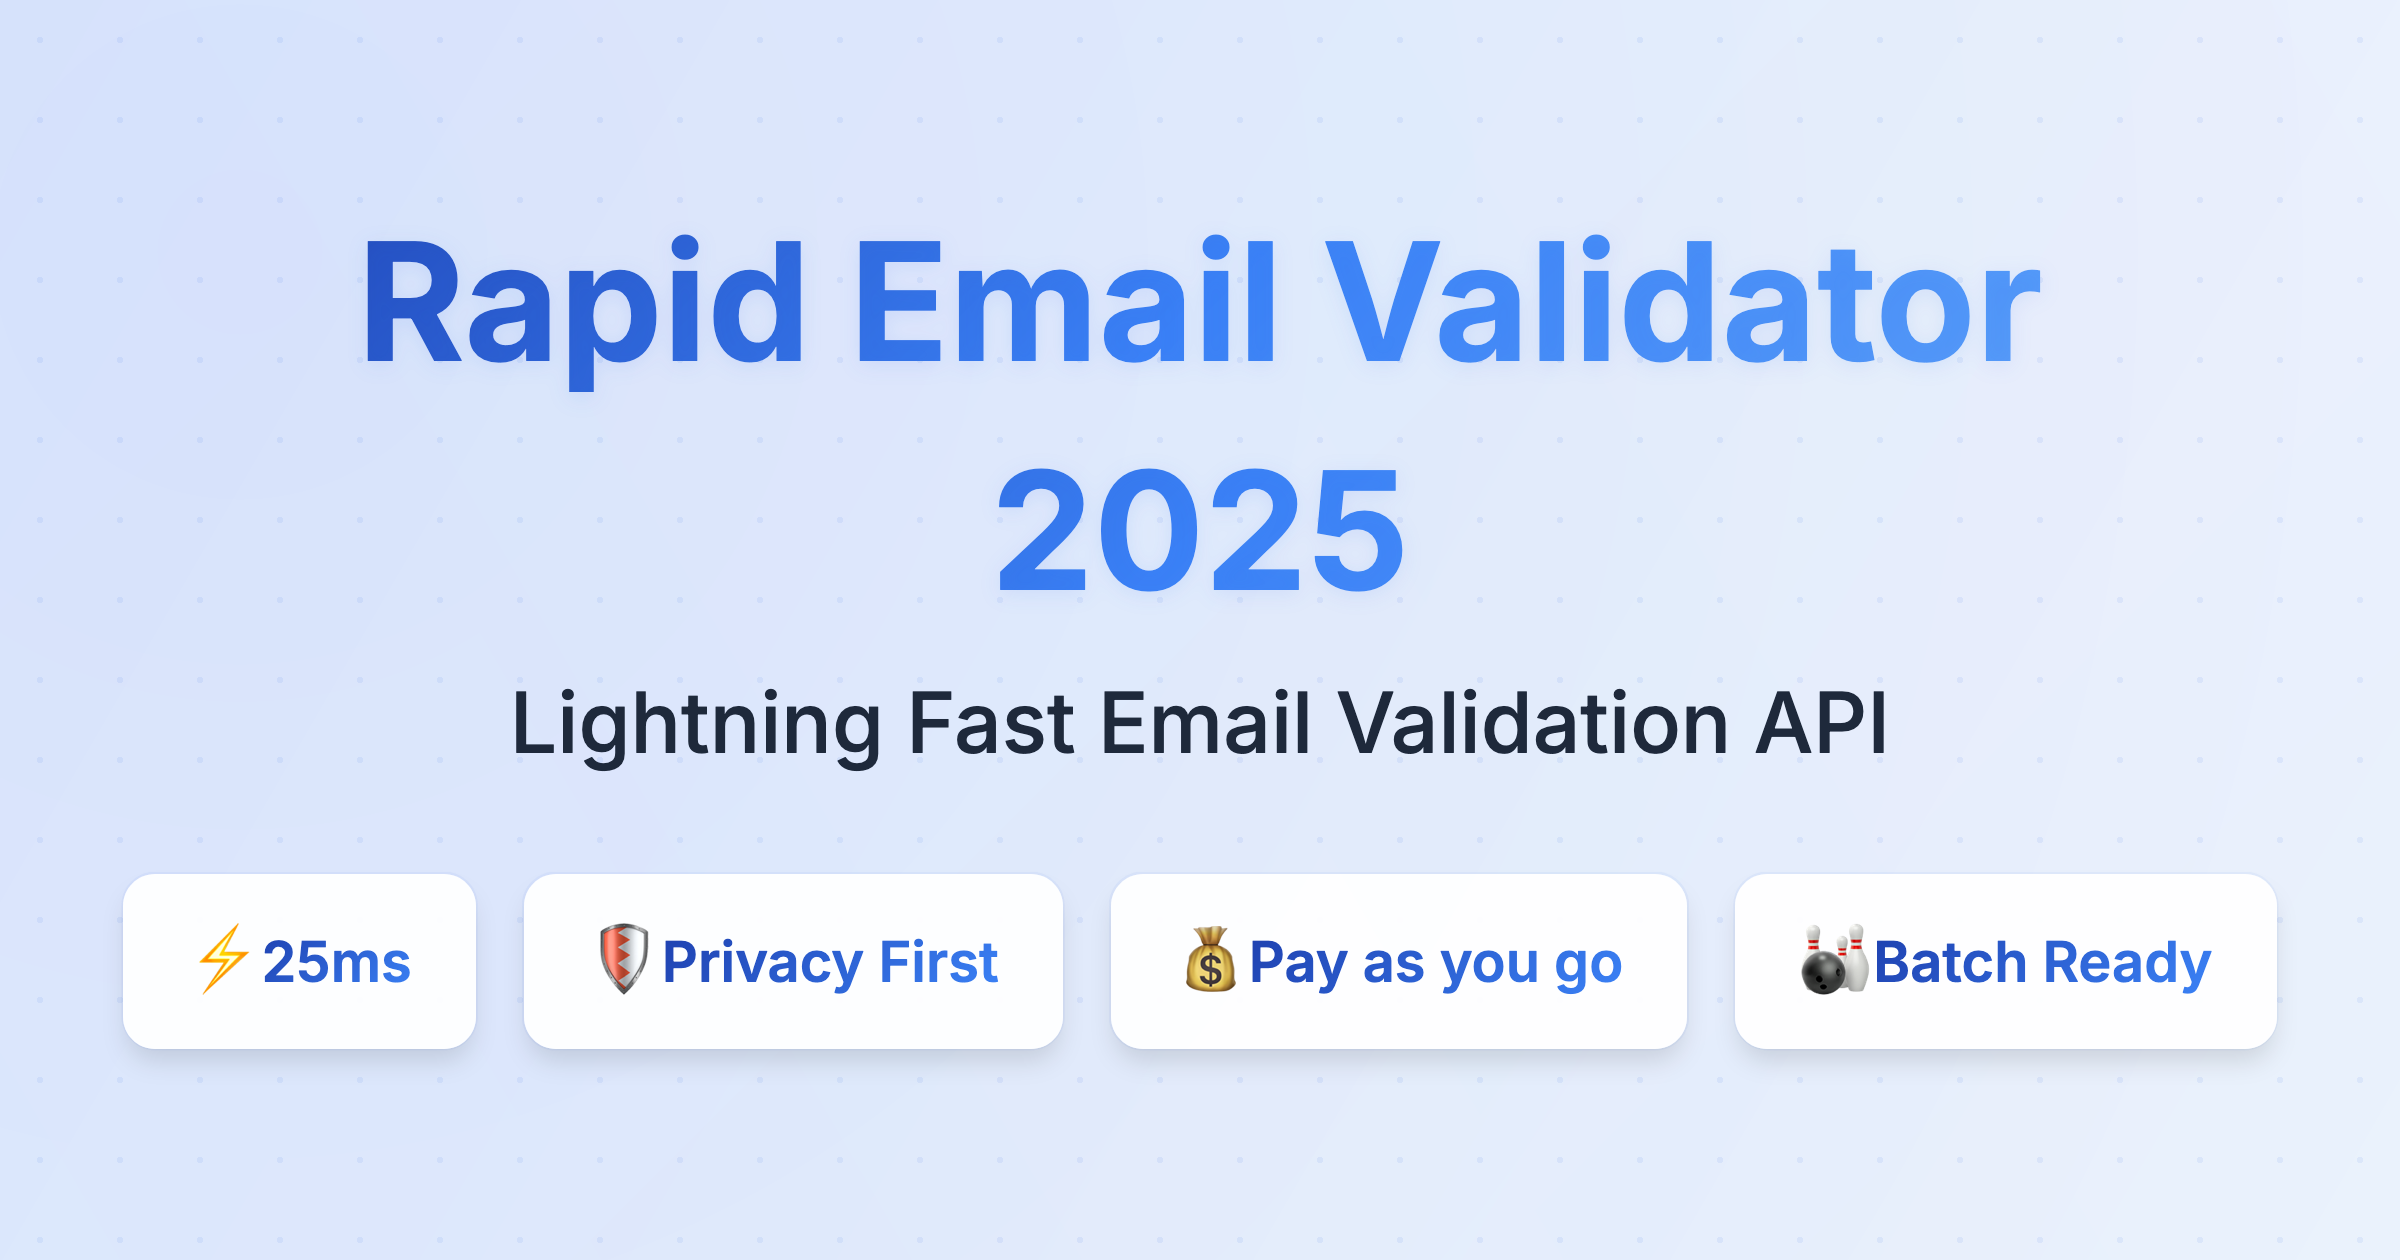
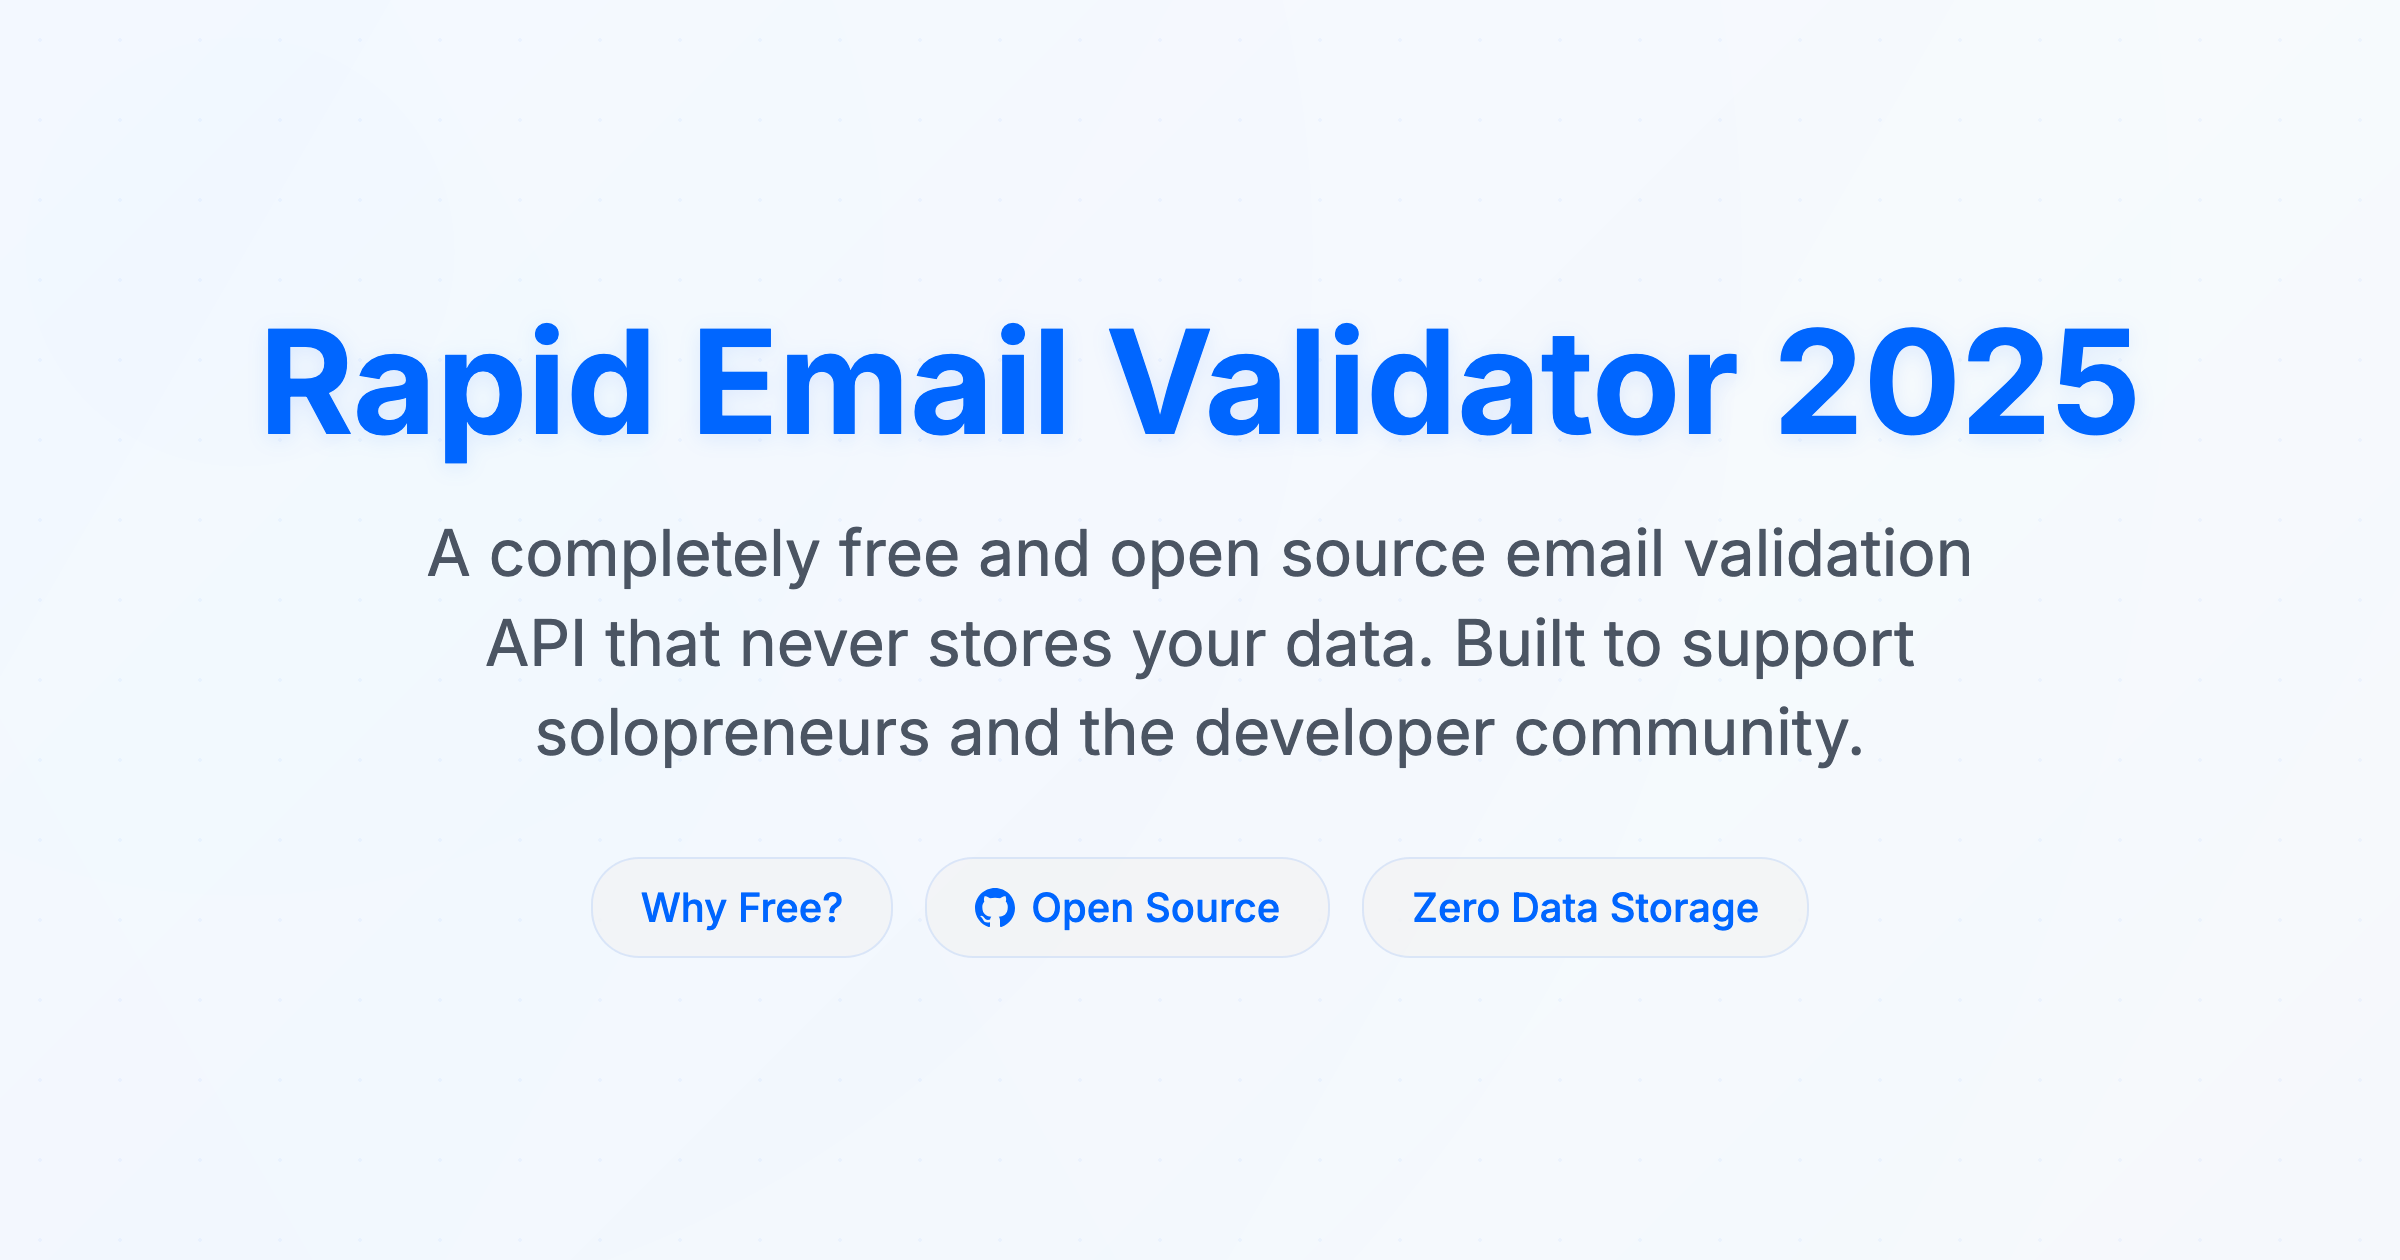
rebranding to rapid email validator

Changed region(s): [[0.0, 0.0, 0.9062, 0.65], [0.0, 0.681, 0.9375, 0.8976], [0.0, 0.681, 0.0312, 0.7119]]

diff --git a/static/index.html b/static/index.html
@@ -13,22 +13,22 @@
     <meta name="language" content="English">
     <meta name="author" content="Umut Erturk">
     <meta name="revisit-after" content="7 days">
-    <link rel="canonical" href="https://fast-email-verifier.fly.dev" />
+    <link rel="canonical" href="https://rapid-email-verifier.fly.dev" />
 
     <!-- Open Graph / Facebook -->
     <meta property="og:type" content="website">
-    <meta property="og:url" content="https://fast-email-verifier.fly.dev">
+    <meta property="og:url" content="https://rapid-email-verifier.fly.dev">
     <meta property="og:title" content="Free Open Source Email Validator API 2025 - Privacy-First Email Verification | No Storage">
     <meta property="og:description" content="100% Free and open source email validation API for developers and startups. Zero data storage, GDPR compliant, real-time verification. Built to support the developer community.">
-    <meta property="og:image" content="https://fast-email-verifier.fly.dev/static/img/og-image.png">
-    <meta property="og:site_name" content="Fast Email Validator">
+    <meta property="og:image" content="https://rapid-email-verifier.fly.dev/static/img/og-image.png">
+    <meta property="og:site_name" content="Rapid Email Validator">
 
     <!-- Twitter -->
     <meta property="twitter:card" content="summary_large_image">
-    <meta property="twitter:url" content="https://fast-email-verifier.fly.dev">
+    <meta property="twitter:url" content="https://rapid-email-verifier.fly.dev">
     <meta property="twitter:title" content="Free Open Source Email Validator API 2025 - Privacy-First Email Verification">
     <meta property="twitter:description" content="100% Free and open source email validation API for developers. Zero data storage, GDPR compliant, real-time verification. Support the community by using responsibly.">
-    <meta property="twitter:image" content="https://fast-email-verifier.fly.dev/static/img/twitter-image.png">
+    <meta property="twitter:image" content="https://rapid-email-verifier.fly.dev/static/img/twitter-image.png">
     <meta property="twitter:creator" content="@CodeOnBrew">
 
     <!-- Favicon -->
@@ -40,7 +40,7 @@
     {
         "@context": "https://schema.org",
         "@type": "SoftwareApplication",
-        "name": "Fast Email Validator 2025",
+        "name": "Rapid Email Validator 2025",
         "applicationCategory": "DeveloperApplication",
         "operatingSystem": "Web",
         "description": "100% Free and open source email validation API for developers and startups. Zero data storage, GDPR compliant, real-time verification. Perfect for solopreneurs and small teams.",
@@ -51,8 +51,8 @@
         },
         "provider": {
             "@type": "Organization",
-            "name": "Fast Email Validator",
-            "url": "https://fast-email-verifier.fly.dev"
+            "name": "Rapid Email Validator",
+            "url": "https://rapid-email-verifier.fly.dev"
         },
         "author": {
             "@type": "Person",
@@ -70,7 +70,7 @@
             "Batch Processing",
             "Privacy Focused"
         ],
-        "codeRepository": "https://github.com/umuterturk/fast-email-verifier"
+        "codeRepository": "https://github.com/umuterturk/rapid-email-verifier"
     }
     </script>
 
@@ -541,7 +541,7 @@
 <body>
     <main class="container">
         <section class="hero">
-            <h1>Fast Email Validator 2025</h1>
+            <h1>Rapid Email Validator 2025</h1>
             <p class="hero-subtitle">A completely free and open source email validation API that never stores your data. Built to support solopreneurs and the developer community.</p>
             <div class="hero-features">
                 <span class="hero-feature"><a href="#why-free">Why Free?</a></span>
@@ -659,7 +659,7 @@
         </section>
 
         <footer>
-            <p>© Fast Email Validator 2025. All rights reserved.</p>
+            <p>© Rapid Email Validator 2025. All rights reserved.</p>
         </footer>
     </main>
 
@@ -668,11 +668,11 @@
         const spec = {
             "openapi": "3.1.0",
             "info": {
-                "title": "Fast Email Validator 2025 API",
+                "title": "Rapid Email Validator 2025 API",
                 "description": "API for validating email addresses, checking for disposable domains, and providing typo suggestions. Supports both single and batch validation.",
                 "version": "1.0.0",
                 "contact": {
-                    "name": "Fast Email Validator 2025 Support"
+                    "name": "Rapid Email Validator 2025 Support"
                 }
             },
             "servers": [

diff --git a/static/img/twitter-template.html b/static/img/twitter-template.html
@@ -1,5 +1,5 @@
 <!DOCTYPE html>
-<html lang="en" style="background-color: #fff;">
+<html lang="en" style="background-color: #000;">
 <head>
     <meta charset="UTF-8">
     <meta name="viewport" content="width=device-width, initial-scale=1.0">
@@ -15,8 +15,8 @@
             align-items: center;
             justify-content: center;
             background: 
-                radial-gradient(circle at 10% 20%, rgba(0, 102, 255, 0.03) 0%, rgba(0, 102, 255, 0.01) 90%),
-                linear-gradient(135deg, #ffffff 0%, #f8fafc 100%);
+                radial-gradient(circle at 10% 20%, rgba(29, 155, 240, 0.08) 0%, rgba(29, 155, 240, 0.02) 90%),
+                linear-gradient(135deg, #15202B 0%, #1A1B1E 100%);
             font-family: 'Inter', sans-serif;
             overflow: hidden;
             position: relative;
@@ -29,8 +29,8 @@
             right: 0;
             bottom: 0;
             background: 
-                linear-gradient(120deg, rgba(0, 102, 255, 0.02) 0%, rgba(0, 102, 255, 0.005) 100%),
-                linear-gradient(60deg, rgba(248, 250, 252, 0.1) 0%, rgba(255, 255, 255, 0.1) 100%);
+                linear-gradient(120deg, rgba(29, 155, 240, 0.05) 0%, rgba(29, 155, 240, 0.01) 100%),
+                linear-gradient(60deg, rgba(21, 32, 43, 0.2) 0%, rgba(26, 27, 30, 0.2) 100%);
             z-index: 1;
         }
 
@@ -46,14 +46,14 @@
             font-size: 72px;
             font-weight: 700;
             margin: 0 0 24px;
-            color: #0066FF;
+            color: #1D9BF0;
             line-height: 1.1;
-            text-shadow: 0 2px 10px rgba(0, 102, 255, 0.1);
+            text-shadow: 0 2px 10px rgba(29, 155, 240, 0.2);
         }
 
         p {
             font-size: 32px;
-            color: #4B5563;
+            color: #E7E9EA;
             margin: 0;
             line-height: 1.4;
             font-weight: 400;
@@ -69,14 +69,14 @@
         }
 
         .feature {
-            background: rgba(243, 244, 246, 0.8);
+            background: rgba(239, 243, 244, 0.1);
             padding: 12px 24px;
             border-radius: 24px;
             font-size: 20px;
             font-weight: 500;
-            color: #0066FF;
+            color: #1D9BF0;
             backdrop-filter: blur(8px);
-            border: 1px solid rgba(0, 102, 255, 0.1);
+            border: 1px solid rgba(29, 155, 240, 0.2);
             transition: transform 0.2s ease;
         }
 
@@ -101,7 +101,7 @@
             width: 100%;
             height: 100%;
             opacity: 0.03;
-            background-image: radial-gradient(#0066FF 1px, transparent 1px);
+            background-image: radial-gradient(#1D9BF0 1px, transparent 1px);
             background-size: 40px 40px;
             z-index: 1;
         }

diff --git a/README.md b/README.md
@@ -458,3 +458,5 @@ PROMETHEUS_ENABLED=true
 ```
 
 The `test_api.sh` script will automatically load these environment variables if they are present in the `.env` file.
+
+> Disposable email provider list is taken from [disposable-email-domains](https://github.com/disposable-email-domains/disposable-email-domains/blob/main/allowlist.conf)

diff --git a/rapidapi-doc.md b/rapidapi-doc.md
@@ -1,4 +1,4 @@
-# Fast Email Validator 2025 - Your Shield Against Bad Emails
+# Rapid Email Validator 2025 - Your Shield Against Bad Emails
 
 ## 🌟 What Sets Us Apart
 
